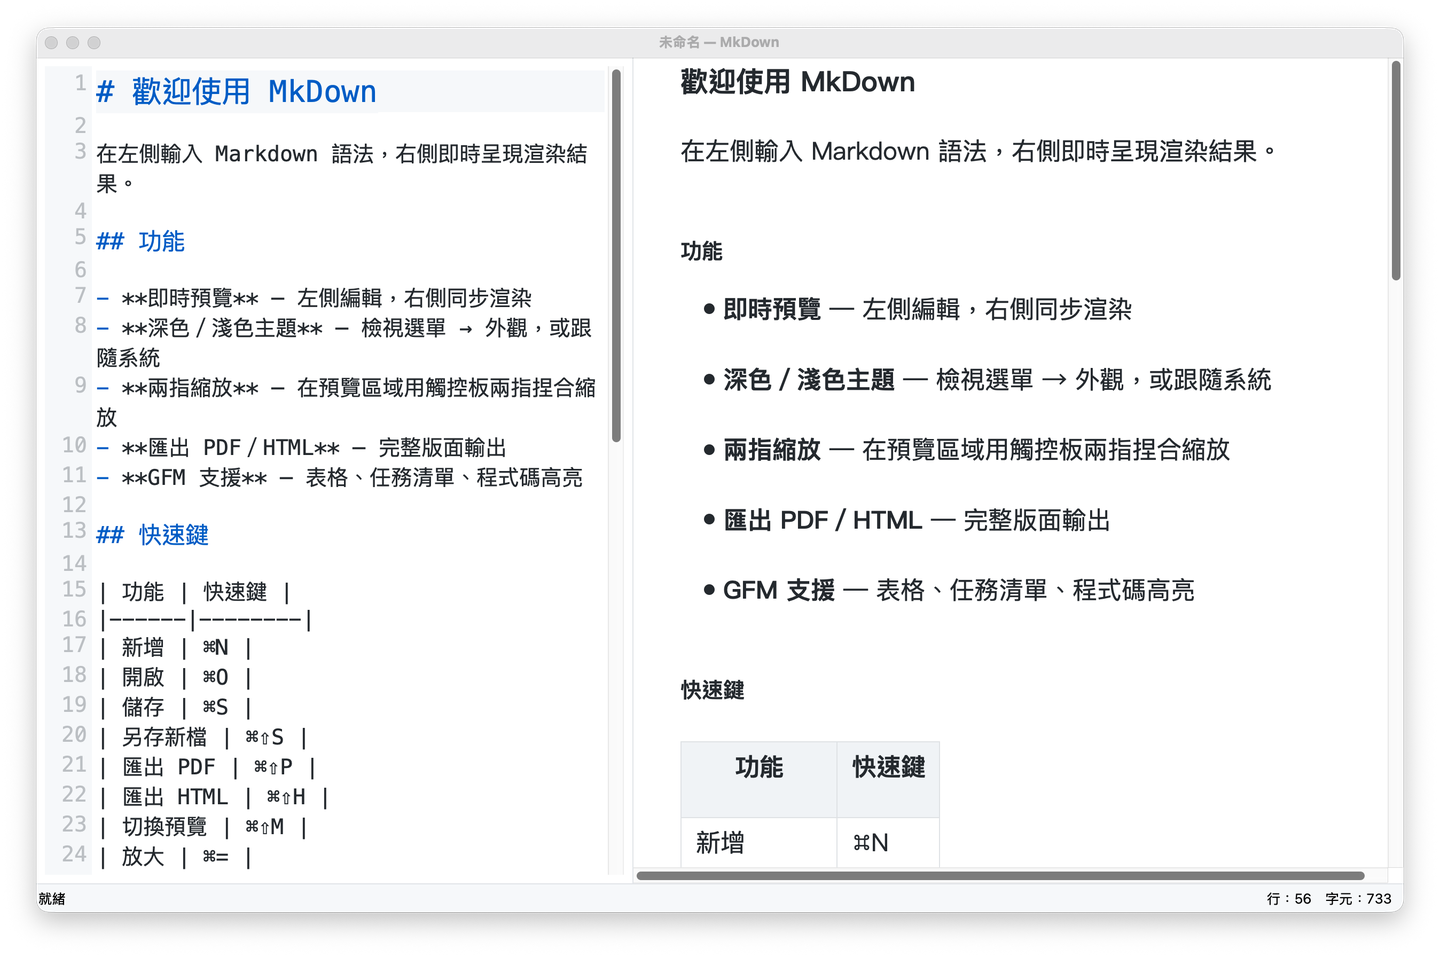
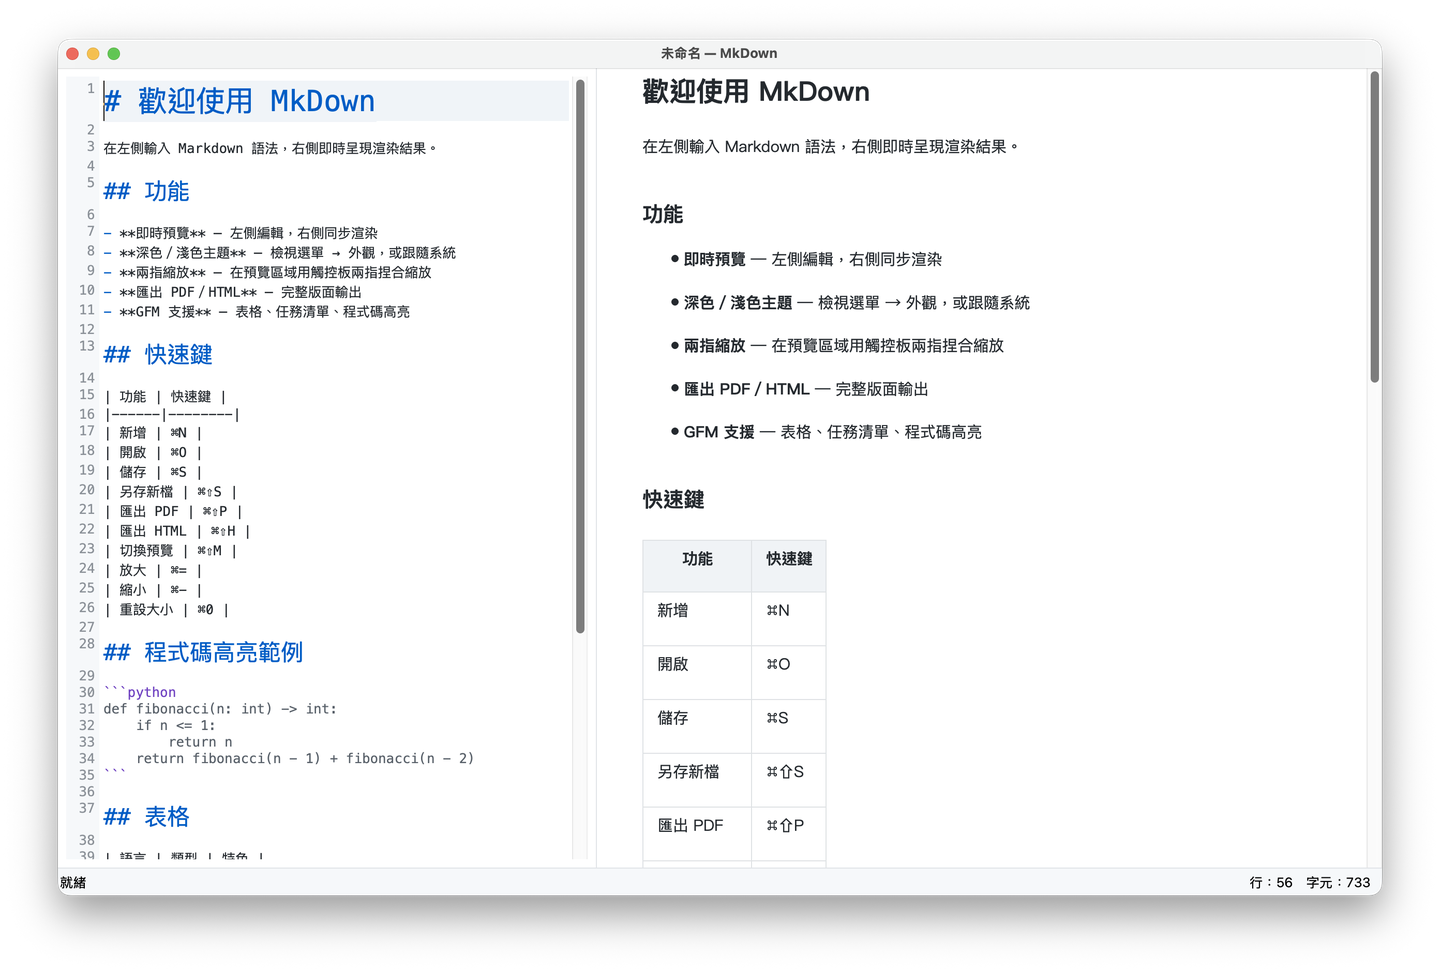
Update screenshots and README for WCAG-improved release
- Refresh both light/dark screenshots to reflect theme-aware syntax
  highlighting and corrected contrast colours
- Add WCAG AAA contrast feature to README feature list
- Note theme-aware highlighter in project structure table
- Add wcag_fix.py to project structure

diff --git a/README.md b/README.md
@@ -5,11 +5,12 @@ A minimal macOS Markdown editor with a live split-pane preview, dark mode suppor
 ## Features
 
 - **Split-pane layout** — edit Markdown on the left, see the rendered result on the right in real time
-- **Syntax highlighting** — headers, bold, italic, code blocks, links, and more highlighted in the editor
+- **Syntax highlighting** — headers, bold, italic, code blocks, links, and more highlighted in the editor; colours adapt to light/dark theme automatically
 - **Dark / Light / Auto theme** — follows macOS system appearance, or set manually via the View menu
 - **Pinch-to-zoom** — use a two-finger trackpad gesture to zoom the preview
 - **Chinese-friendly font** — preview uses PingFang TC (蘋方-繁) for comfortable Traditional Chinese reading
 - **Code block highlighting** — fenced code blocks are syntax-coloured via [Pygments](https://pygments.org/) (friendly / monokai styles for light / dark mode)
+- **WCAG AAA contrast** — all foreground/background colour pairs meet WCAG AA/AAA contrast requirements in both themes
 - **Export to PDF** — full-fidelity PDF output via Qt's print engine
 - **Export to HTML** — self-contained HTML file with all styles embedded
 - **Open from CLI** — `python3 main.py README.md`
@@ -20,8 +21,6 @@ A minimal macOS Markdown editor with a live split-pane preview, dark mode suppor
 | Light mode | Dark mode |
 |---|---|
 | ![light](docs/screenshot-light.png) | ![dark](docs/screenshot-dark.png) |
-
-> Screenshots will be added after the first tagged release.
 
 ## Requirements
 
@@ -75,9 +74,10 @@ mkdown/
 ├── main.py          # Entry point
 ├── window.py        # Main window, menus, file operations
 ├── editor.py        # Code editor widget with line numbers & syntax highlight
-├── highlighter.py   # QSyntaxHighlighter for Markdown
+├── highlighter.py   # QSyntaxHighlighter for Markdown (theme-aware)
 ├── preview.py       # Live preview widget (QTextBrowser + Pygments)
 ├── theme.py         # Light / dark / auto theme manager
+├── wcag_fix.py      # WCAG contrast audit & colour adjustment script
 ├── requirements.txt
 └── MkDown.spec      # PyInstaller build spec
 ```
